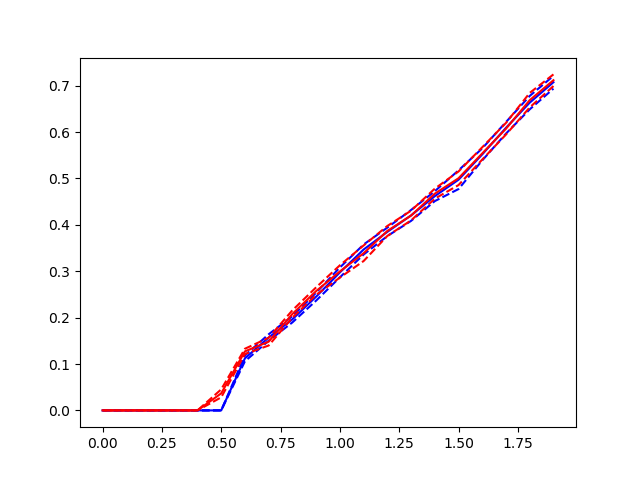
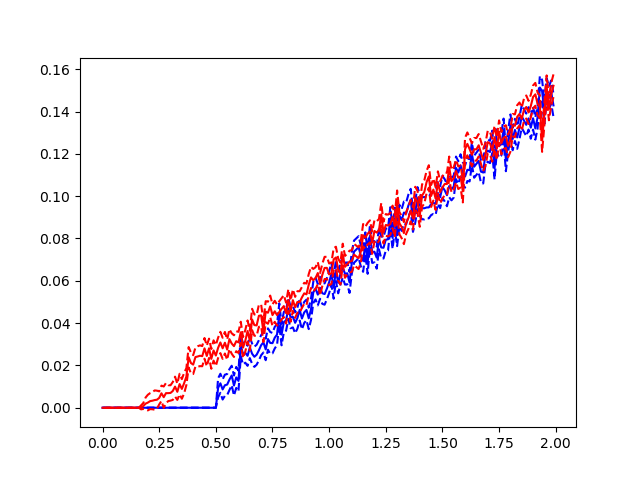
changing running time to running until target error

diff --git a/RC_SET/dots_array.py b/RC_SET/dots_array.py
@@ -20,7 +20,11 @@ from copy import copy
 
 EPS = 0.0001
 # Gillespie Constants
-MIN_STEPS = 1000
+MIN_STEPS = 100
+STEADY_STATE_VAR = 1e-4
+ALLOWED_ERR = 1e-3
+STEADY_STATE_REP = 10
+
 # Tau Leaping Constants
 TAU_EPS = 0.03
 # Lyaponuv Constants
@@ -799,7 +803,7 @@ class Simulator:
             self.printState()
         return dt
 
-    def calcCurrent(self, t,print_stats=False,fullOutput=False, currentMap=False):
+    def calcCurrent(self, t,print_stats=False, fullOutput=False, currentMap=False):
         if currentMap:
             self.dotArray.currentMapOn()
         self.dotArray.resetCharge()
@@ -812,7 +816,8 @@ class Simulator:
             Q_var = np.zeros(Q_avg.shape)
         curr_n = self.dotArray.getOccupation()
         curr_Q = self.dotArray.getGroundCharge()
-        while curr_t < t or steps < MIN_STEPS:
+        err = 2*ALLOWED_ERR
+        while err > ALLOWED_ERR:
             if self.tauLeaping:
                 dt = self.executeLeapingStep(printState=print_stats)
             else:
@@ -824,10 +829,12 @@ class Simulator:
                 curr_n = self.dotArray.getOccupation()
                 curr_Q = self.dotArray.getGroundCharge()
             curr_t += dt
-        rightCurrent, leftCurrent = self.dotArray.getCharge()
-        rightCurrentSqr, leftCurrentSqr = self.dotArray.getIsqr()
-        rightCurrentErr = np.sqrt((1/(steps - 1)) * (rightCurrentSqr/curr_t - rightCurrent**2/curr_t**2))
-        leftCurrentErr = np.sqrt((1/ (steps - 1)) * (leftCurrentSqr/curr_t - leftCurrent**2/curr_t**2))
+            if steps%MIN_STEPS == 0:
+                rightCurrent, leftCurrent = self.dotArray.getCharge()
+                rightCurrentSqr, leftCurrentSqr = self.dotArray.getIsqr()
+                rightCurrentErr = np.sqrt((1/(steps-1)) * (rightCurrentSqr/curr_t - rightCurrent**2/curr_t**2))
+                leftCurrentErr = np.sqrt((1/(steps-1)) * (leftCurrentSqr/curr_t - leftCurrent**2/curr_t**2))
+                err = max(rightCurrentErr, leftCurrentErr)
         res = (rightCurrent/curr_t, -leftCurrent/curr_t, rightCurrentErr, leftCurrentErr)
         if fullOutput:
             res = res + (n_avg, Q_avg, self.get_err(n_var, steps, curr_t), self.get_err(Q_var, steps, curr_t))
@@ -835,6 +842,33 @@ class Simulator:
             res = res + (self.dotArray.getCurrentMap()/curr_t,)
             self.dotArray.currentMapOff()
         return res
+
+    def getToSteadyState(self, t):
+        Qerr = 2*STEADY_STATE_VAR
+        var = STEADY_STATE_VAR
+        t = t/(STEADY_STATE_REP**2)
+        curr_Q = self.dotArray.getGroundCharge()
+        not_decreasing_count = 0
+        while Qerr > var and not_decreasing_count < 10:
+            Qs = []
+            for run in range(STEADY_STATE_REP):
+                curr_Qs = []
+                curr_t = 0
+                while curr_t < t:
+                    if self.tauLeaping:
+                        dt = self.executeLeapingStep()
+                    else:
+                        dt = self.executeStep()
+                    curr_t += dt
+                    curr_Qs.append(curr_Q*dt)
+                    curr_Q = self.dotArray.getGroundCharge()
+                Qs.append(np.sum(curr_Qs, axis=0)/curr_t)
+            new_Qerr = np.max(np.var(Qs, axis=0))
+            if new_Qerr > Qerr:
+                not_decreasing_count += 1
+            Qerr = new_Qerr
+
+        return True
 
     def checkSteadyState(self, rep):
         Ileft = []
@@ -956,7 +990,7 @@ class Simulator:
         for VL,VR in zip(VL_vec, VR_vec):
             self.dotArray.changeVext(VL, VR)
             # running once to get to steady state
-            self.calcCurrent(tStep)
+            self.getToSteadyState(tStep)
             # now we are in steady state calculate current
             stepRes = self.calcCurrent(tStep, print_stats=print_stats, fullOutput=fullOutput, currentMap=currentMap)
             rightCurrent = stepRes[0]
@@ -972,7 +1006,7 @@ class Simulator:
                 Imaps.append(stepRes[-1])
             I.append((rightCurrent+leftCurrent)/2)
             IErr.append(np.sqrt((rightCurrentErr**2+leftCurrentErr**2))/2)
-            # print(VL - VR, end=',')
+            print(VL - VR, end=',')
             self.saveState(I, IErr, ns, Qs, nsErr, QsErr, Imaps, fullOutput=fullOutput,
                            currentMap=currentMap, basePath=basePath)
         res = (np.array(I), np.array(IErr), VL_res - VR_res)
@@ -1272,7 +1306,6 @@ class GraphSimulator:
         I = []
         ns = []
         Qs = []
-        Vind_addition = 0
         if vSym:
             Vstep /= 2
             Vmax /= 2
@@ -1290,13 +1323,12 @@ class GraphSimulator:
             Vind = len(I)
             VL_vec = VL_vec[Vind:]
             VR_vec = VR_vec[Vind:]
-            Vind_addition = Vind
             self.n0 = resumeParams[1]
             self.QG = resumeParams[2]
             if fullOutput:
                 ns = list(resumeParams[3])
                 Qs = list(resumeParams[4])
-        for VL,VR in zip(VL_vec,VR_res):
+        for VL,VR in zip(VL_vec,VR_vec):
             print(VL-VR,end=',')
             self.dotArray.changeVext(VL, VR)
             res = self.calcCurrent(fullOutput=fullOutput, basePath=basePath)
@@ -1766,21 +1798,21 @@ if __name__ == "__main__":
     elif not os.path.isdir(savePath):
         print("the given path exists but is a file")
         exit(0)
-    # import cProfile, pstats, io
-    # from pstats import SortKey
-    # pr = cProfile.Profile()
-    # pr.enable()
+    import cProfile, pstats, io
+    from pstats import SortKey
+    pr = cProfile.Profile()
+    pr.enable()
     array_params = runFullSimulation(VL0, VR0, vSym, VG, Q0, n0, CG, RG, Ch, Cv, Rh, Rv, rows,  columns,
                                      Vmax, Vstep, temperature=T, repeats=repeats, savePath=savePath, fileName=fileName,
                                      fullOutput=fullOutput, printState=False, useGraph=use_graph,
                                      fastRelaxation=fast_relaxation, currentMap=current_map,
                                      dbg=dbg, plotCurrentMaps=plot_current_map, resume=resume,
                                      checkSteadyState=False, superconducting=sc, gap=gap, leaping=leaping)
-    # pr.disable()
-    # s = io.StringIO()
-    # sortby = SortKey.CUMULATIVE
-    # ps = pstats.Stats(pr, stream=s).sort_stats(sortby)
-    # ps.print_stats()
-    # print(s.getvalue())
+    pr.disable()
+    s = io.StringIO()
+    sortby = SortKey.CUMULATIVE
+    ps = pstats.Stats(pr, stream=s).sort_stats(sortby)
+    ps.print_stats()
+    print(s.getvalue())
     saveParameters(savePath, fileName, options, array_params)
     exit(0)
